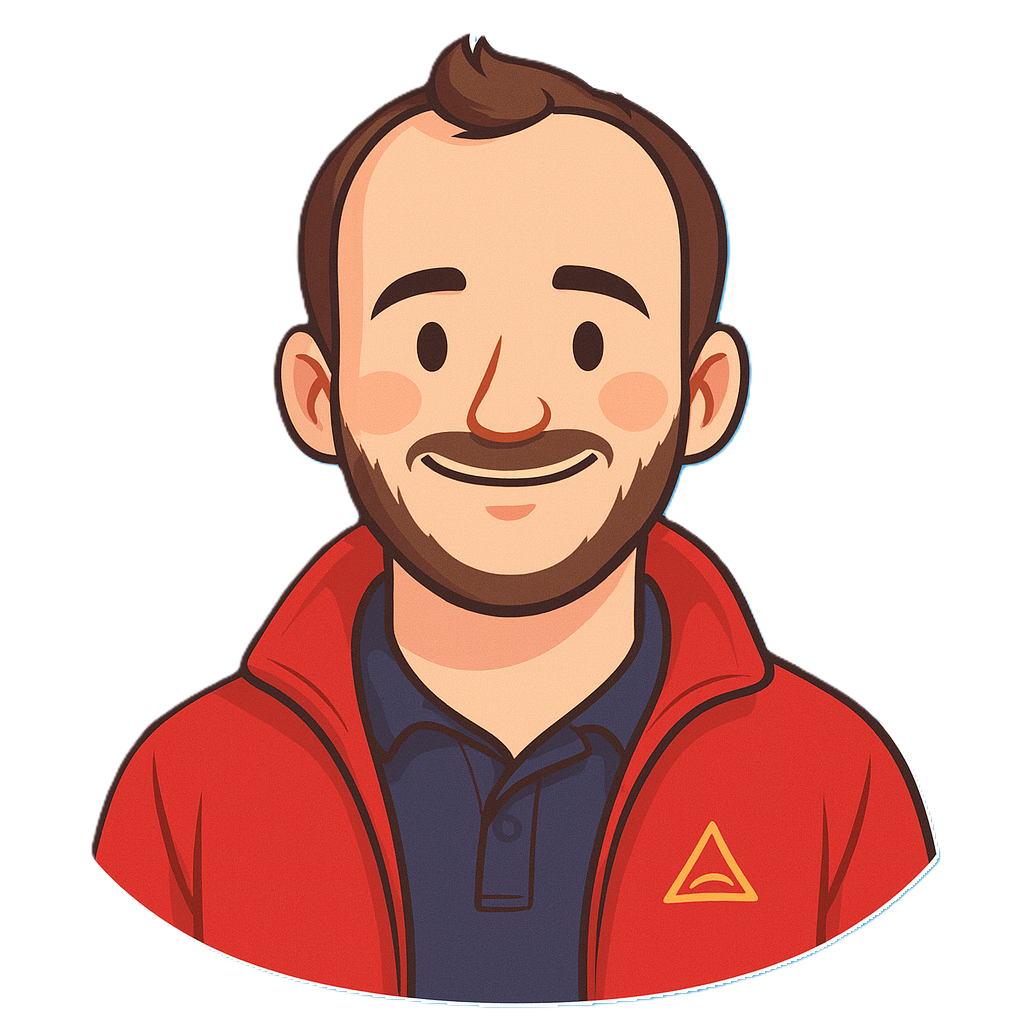
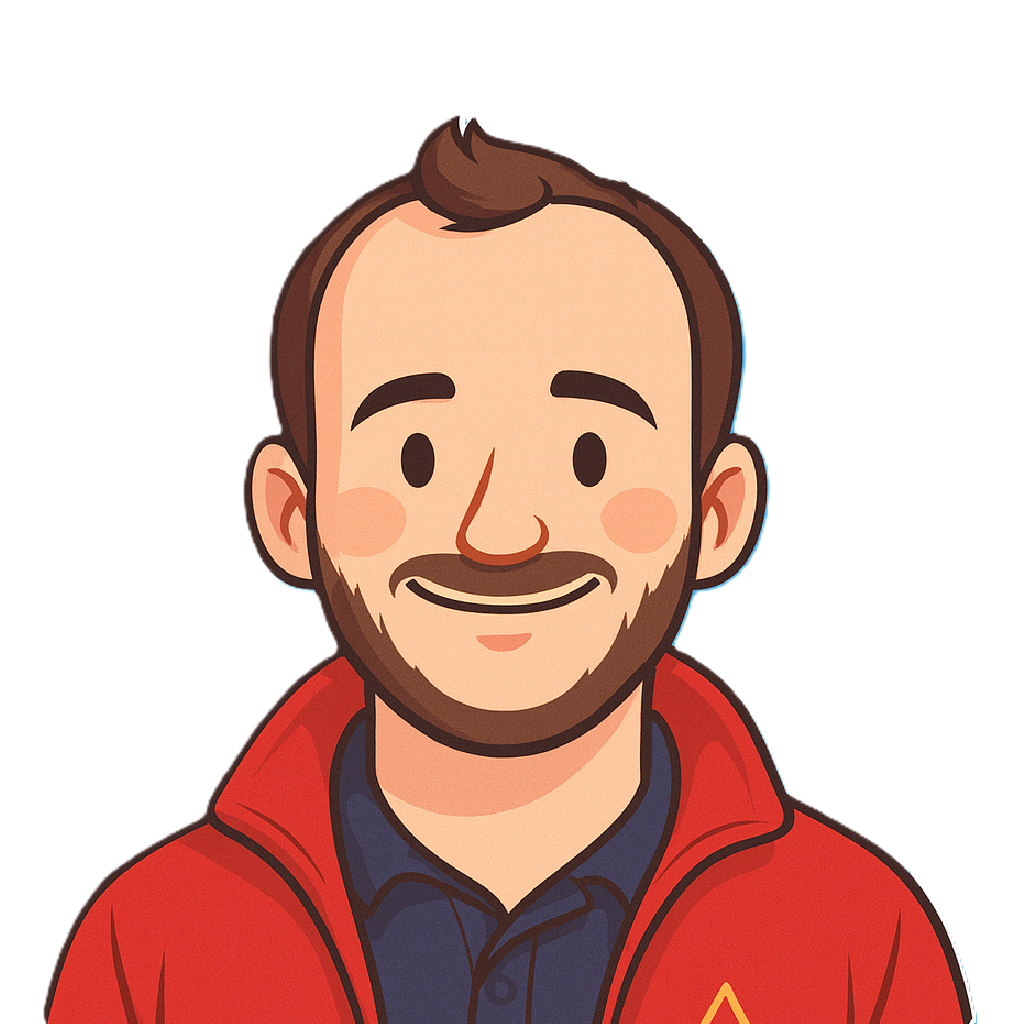
add other members

diff --git a/index.html b/index.html
@@ -253,6 +253,13 @@
                             <p>Ne lui donnez pas de café svp !</p>
                         </div>
                         <div class="member-card">
+                            <div class="avatar"><img src="Ressources/Avatar_membres/avatar_dodie.png" alt="Avatar Letud" class="logo-image"></div>
+                            <h4>Dodie (Elodie)</h4>
+                            <h3>IDIoT</h3>
+                            <p>Trouver une phrase pour me décrire ?</p>
+                            <p>Foutez moi la paix ! </p>
+                        </div>
+                        <div class="member-card">
                             <div class="avatar"><img src="Ressources/Avatar_membres/avatar_cha.png" alt="Avatar Cha" class="logo-image"></div>
                             <h4>Cha (Charlotte)</h4>
                             <h3>IDIoT</h3>
@@ -277,6 +284,13 @@
                             <h4>Pedzouille (Julien)</h4>
                             <h3>IDIoT (Fondateur)</h3>
                             <p>Freiner c'est tricher</p>
+                        </div>
+                        <div class="member-card">
+                            <div class="avatar"><img src="Ressources/Avatar_membres/avatar_adri.png" alt="Avatar Letud" class="logo-image"></div>
+                            <h4>Legend Aston (Adrien)</h4>
+                            <h3>IDIoT</h3>
+                            <p>Réussi à réparer une 4L</p>
+                            <p>sans tacher sa chemise</p>
                         </div>
                         <div class="member-card">
                             <div class="avatar"><img src="Ressources/Avatar_membres/avatar_valentop.png" alt="Avatar Letud" class="logo-image"></div>
